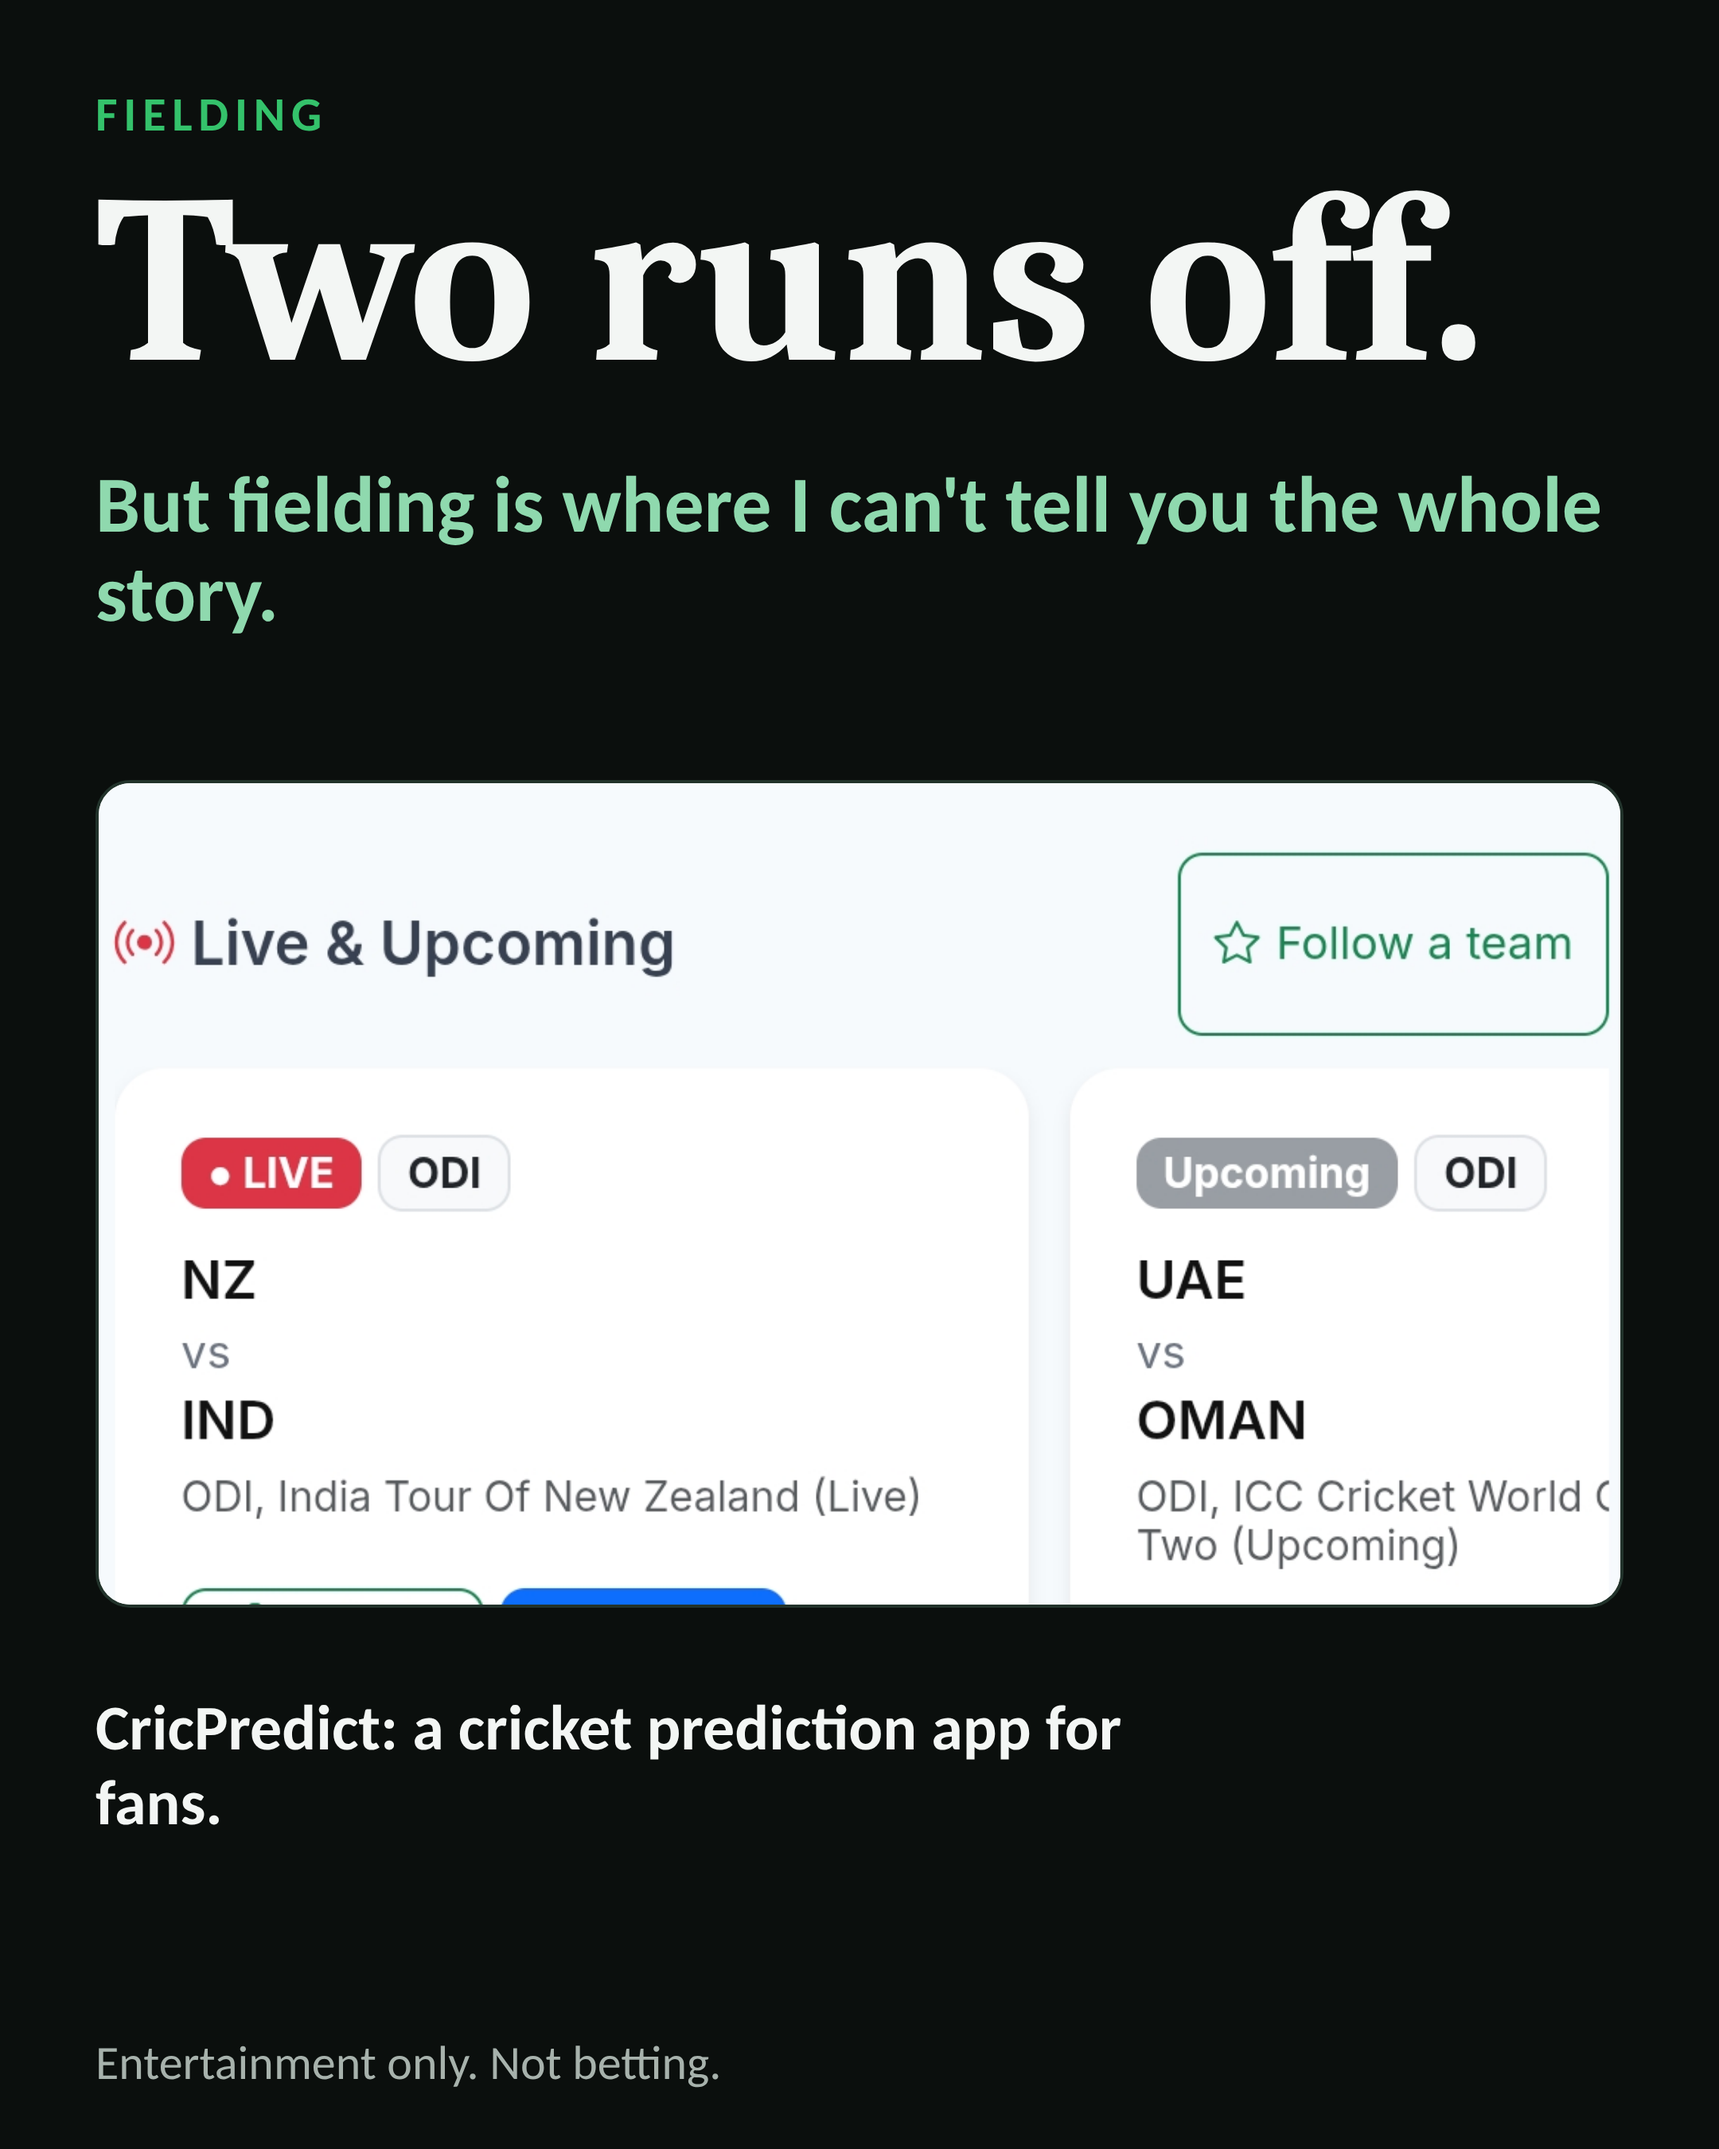
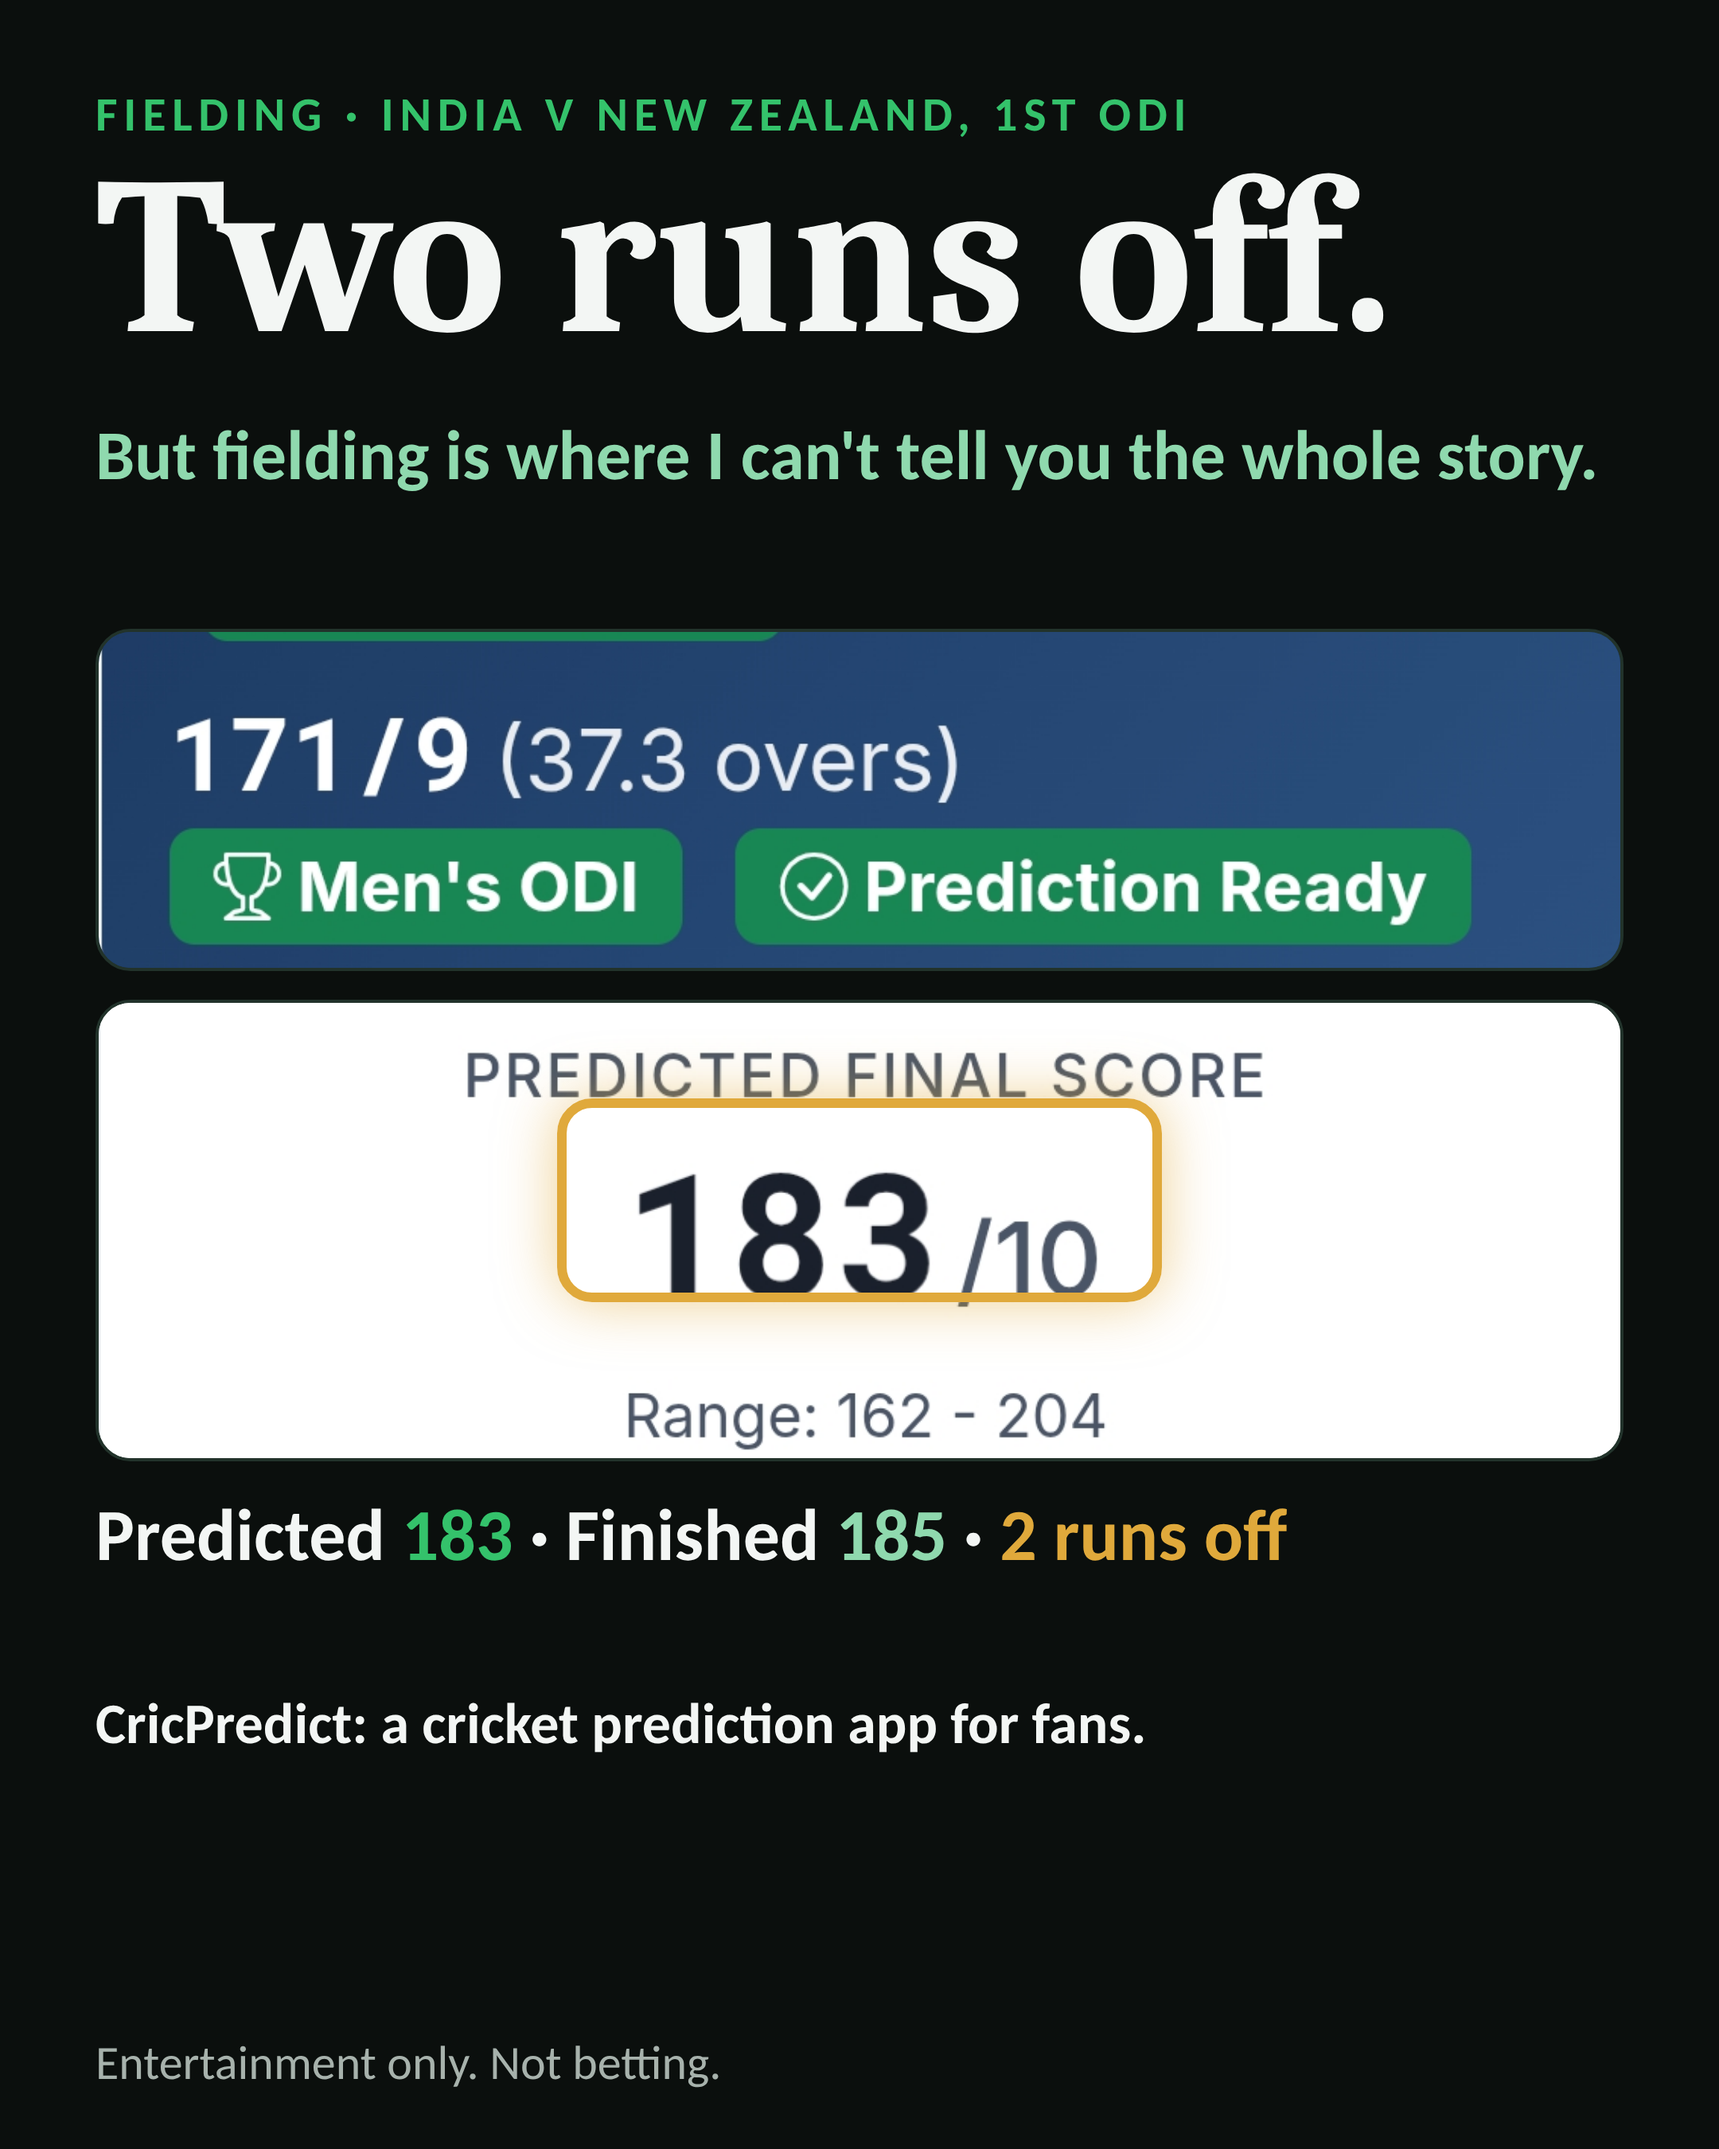
Opening slide: show the 171/9 to 183 prediction and the 2-run gap
Claude-Session: https://claude.ai/code/session_01WemNfgRxdciwJG2j1zSRxe

diff --git a/presentation/video/linkedin_draft/scenes.html b/presentation/video/linkedin_draft/scenes.html
@@ -203,11 +203,14 @@ h1{position:absolute;left:60px;top:100px;width:960px;font-family:Caladea,Georgia
 
 <!-- v4 slide-first versions: slides stay the focus, small face window added by the builder -->
 <section class="scene" id="v4_open_s">
-  <div class="abs kicker">Fielding</div>
-  <h1 style="font-size:150px;top:100px">Two runs off.</h1>
-  <div class="abs" style="left:60px;top:290px;width:960px;font-size:50px;line-height:1.12;color:var(--mint);font-weight:700">But fielding is where I can't tell you the whole story.</div>
-  <div class="shot" style="left:60px;top:490px;width:960px;height:520px;overflow:hidden;background:#fff"><img src="assets/crops/live_home.png" style="position:absolute;left:0;top:0;width:960px"></div>
-  <div class="abs take" style="font-size:40px;top:1062px">CricPredict: a cricket prediction app for fans.</div>
+  <div class="abs kicker">Fielding · India v New Zealand, 1st ODI</div>
+  <h1 style="font-size:140px;top:90px">Two runs off.</h1>
+  <div class="abs" style="left:60px;top:262px;width:960px;font-size:44px;line-height:1.12;color:var(--mint);font-weight:700">But fielding is where I can't tell you the whole story.</div>
+  <div class="shot" style="left:60px;top:395px;width:960px;height:215px;overflow:hidden;background:#1f3d6b"><img src="assets/crops/banner_171.png" style="position:absolute;left:0;top:-330px;width:960px"></div>
+  <div class="shot" style="left:60px;top:628px;width:960px;height:290px;overflow:hidden;background:#fff"><img src="assets/crops/score_183.png" style="position:absolute;left:0;top:0;width:960px"></div>
+  <div class="abs" style="left:350px;top:690px;width:380px;height:128px;border:6px solid var(--amber);border-radius:22px;box-shadow:0 0 36px rgba(224,169,59,.55)"></div>
+  <div class="abs" style="left:60px;top:940px;width:960px;font-size:46px;font-weight:900;line-height:1.1">Predicted <span class="green">183</span> · Finished <span class="mint">185</span> · <span class="amber">2 runs off</span></div>
+  <div class="abs take" style="font-size:36px;top:1062px;width:700px;font-weight:700">CricPredict: a cricket prediction app for fans.</div>
   <div class="abs foot">Entertainment only. Not betting.</div>
 </section>
 <section class="scene" id="v4_hold">
